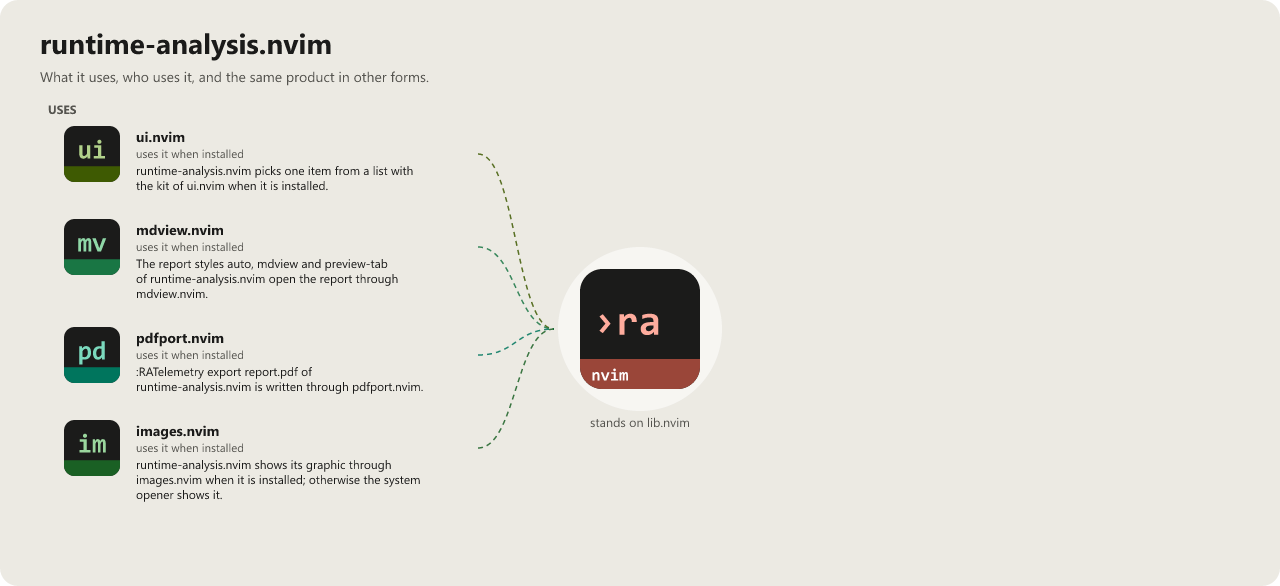
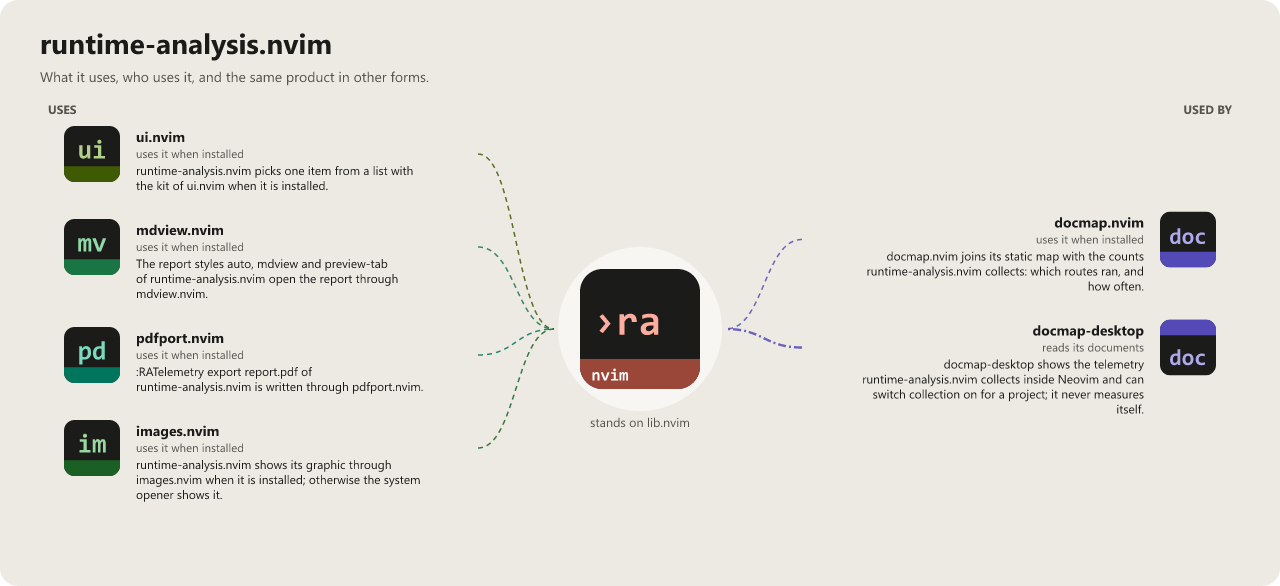
docs(graphs): connections through optional loaders, programs, HTTP and files
The connections picture and the README block now also show what the require rule did not see: optional loads through soft_require, lib.nvim.require.safe and package.loaded, and connections over programs, HTTP and files, each with a line of code as evidence. Written by the app-icons tool of the workshop (graphs.mjs install-repos).

diff --git a/README.md b/README.md
@@ -110,4 +110,9 @@ runtime-analysis.nvim is released under the [MIT License](https://opensource.org
 - [pdfport.nvim](https://github.com/WKDSteve/pdfport.nvim): `:RATelemetry export report.pdf` of runtime-analysis.nvim is written through pdfport.nvim. ([picture](assets/graphs/pair/runtime-analysis.nvim--pdfport.nvim.png))
 - [ui.nvim](https://github.com/WKDSteve/ui.nvim): runtime-analysis.nvim picks one item from a list with the kit of ui.nvim when it is installed. ([picture](assets/graphs/pair/runtime-analysis.nvim--ui.nvim.png))
 - [lib.nvim](https://github.com/WKDSteve/lib.nvim): the shared base of the plugins.
+
+**Used by**
+
+- [docmap-desktop](https://github.com/WKDSteve/docmap-desktop): docmap-desktop shows the telemetry runtime-analysis.nvim collects inside Neovim and can switch collection on for a project; it never measures itself. ([picture](assets/graphs/pair/docmap-desktop--runtime-analysis.nvim.png))
+- [docmap.nvim](https://github.com/WKDSteve/docmap.nvim): docmap.nvim joins its static map with the counts runtime-analysis.nvim collects: which routes ran, and how often. ([picture](assets/graphs/pair/docmap.nvim--runtime-analysis.nvim.png))
 <!-- connections:end -->
